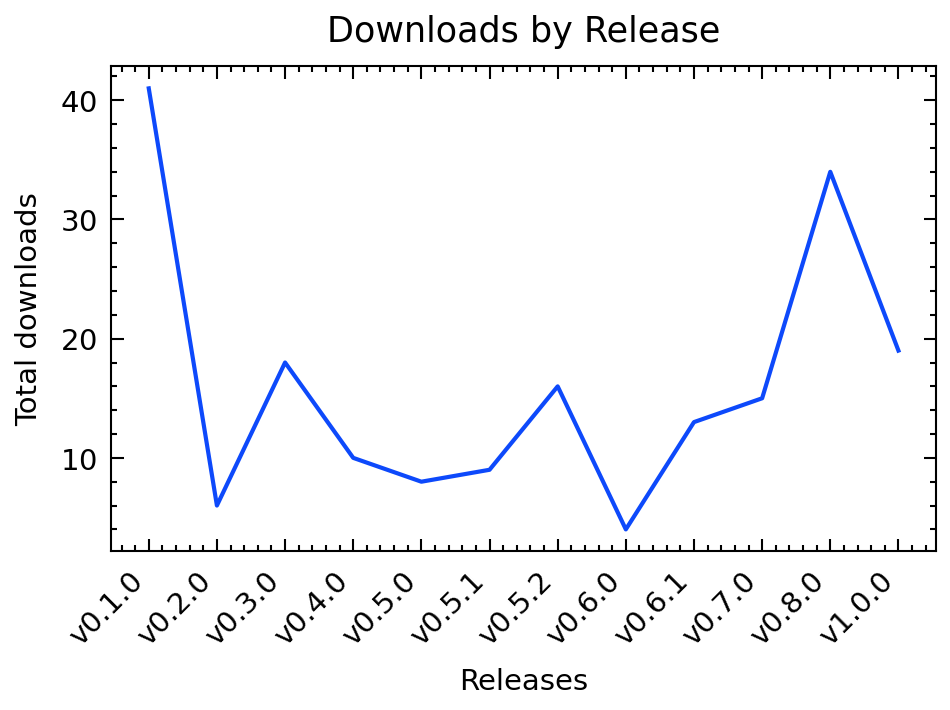
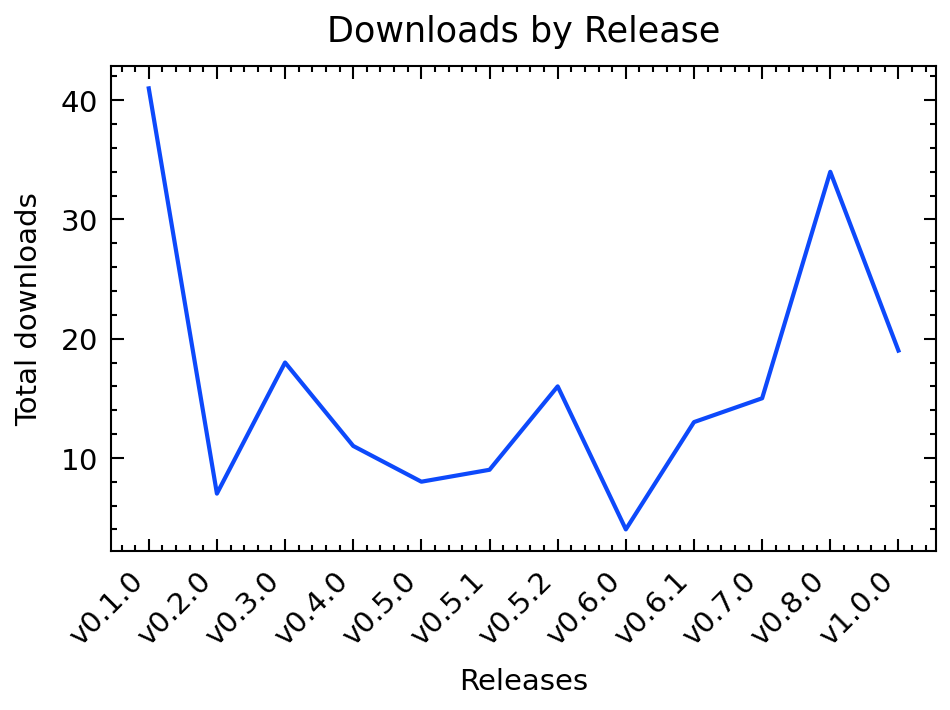
Updated Metrics data

diff --git a/README.md b/README.md
@@ -4,7 +4,7 @@
 SciWIn-Client helps users creating **Computational Workflows** in CWL. Detailed Information about SciWIn-Client can be found in the [GitHub Repository](https://github.com/fairagro/m4.4_sciwin_client). The Metrics shown below have been calculated using the GitHub API. Presentation is done via a CWL Workflow and the scripts in this repository.
 
 ## Downloads by Version
-SciWIn-Client currently has about 193 overall downloads across all versions and operating systems. The lastest version v1.0.0 currently has 19 downloads.
+SciWIn-Client currently has about 195 overall downloads across all versions and operating systems. The lastest version v1.0.0 currently has 19 downloads.
 
 
 ![downloads by version](release.png)
@@ -20,14 +20,14 @@ SciWIn-Client currently has about 193 overall downloads across all versions and 
 | v0.5.2 | 16|
 | v0.5.1 | 9|
 | v0.5.0 | 8|
-| v0.4.0 | 10|
+| v0.4.0 | 11|
 | v0.3.0 | 18|
-| v0.2.0 | 6|
+| v0.2.0 | 7|
 | v0.1.0 | 41|
 
 
 ## Downloads by Operating System
-SciWIn-Client is used on all major operating systems. There are 106 downloads of the Linux executable, 38 downloads of the Windows executable and 49 downloads of the Mac OS executable.
+SciWIn-Client is used on all major operating systems. There are 107 downloads of the Linux executable, 38 downloads of the Windows executable and 50 downloads of the Mac OS executable.
 
 
 ![downloads by platform](platform.png)
@@ -36,8 +36,8 @@ SciWIn-Client is used on all major operating systems. There are 106 downloads of
 | Platform | Downloads |
 |---------|-----------|
 | MacOS (ARM) | 29|
-| Linux (ARM) | 25|
-| MacOS (x64) | 20|
+| Linux (ARM) | 26|
+| MacOS (x64) | 21|
 | Windows (x64) | 38|
 | Linux (x64) | 81|
 
